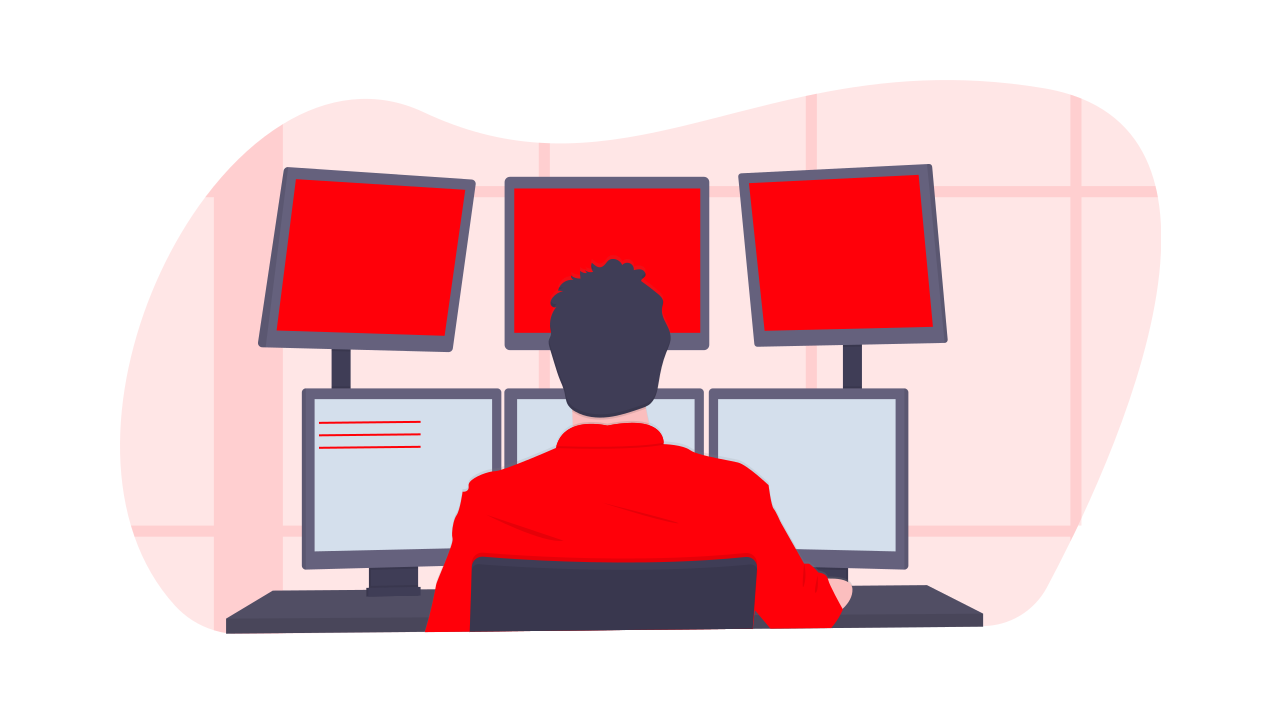
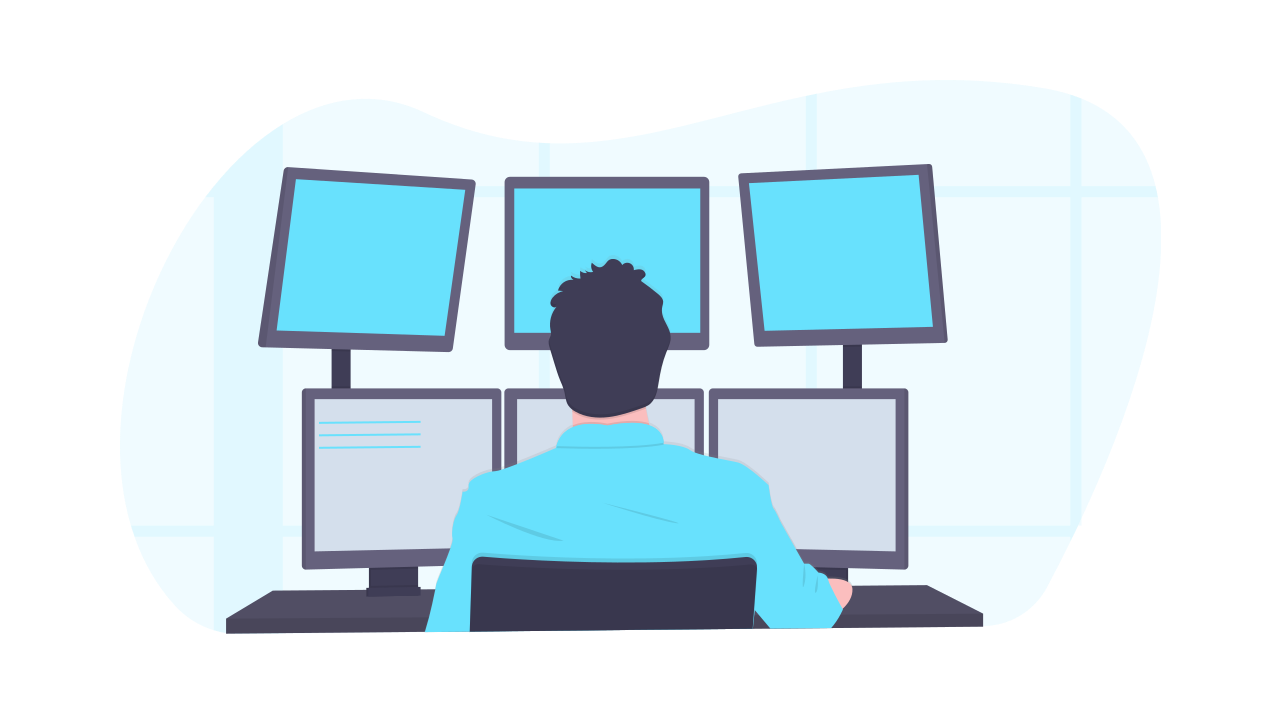
"Home page final "

diff --git a/src/components/reuseable/Frameworks.js b/src/components/reuseable/Frameworks.js
@@ -4,23 +4,40 @@ import { DiDjango} from 'react-icons/di'
 export default class Frameworks extends Component {
     render() {
         return (
-            <div className="container-fluid bg-light">
-                <h1>One stop location to learn all Web frameworks!</h1>
+            <div className="container-fluid bg-light pb-5">
+                <h1 className="text-center text-bold mb-5 text-second">One stop location to learn all Web frameworks!</h1>
                 <div className="container d-flex flex-row mx-auto bg-light justify-content-around">
-                    <div className="framecard d-flex flex-column">
-                        <FaLaravel className="frameicon"/>
-                        Laravel
+                    <div className="framecard d-flex flex-column shadow"
+                                                    data-sal="fade"
+                                                    data-sal-delay="600"
+                                                    data-sal-easing="ease">
+                        <FaLaravel className="frameicon text-first"/>
+                        <p className="text-center text-second ">Laravel</p>
                     </div>
-                    <div className="framecard d-flex flex-column">
-                        <FaVuejs  className="frameicon"/>
-                        Vue.js
+                    <div className="framecard d-flex flex-column shadow "
+                        data-sal="fade"
+                        data-sal-delay="700"
+                        data-sal-easing="ease">
+                        <FaVuejs  className="frameicon text-first"/>
+                        <p className="text-center text-second">Vue.js</p>
+                        
                     </div>
-                    <div className="framecard d-flex flex-column">
-                        <FaReact  className="frameicon"/>React.js</div>
-                    <div className="framecard d-flex flex-column "><FaAngular  className="frameicon"/>
-                    Angular 2</div>
-                    <div className="framecard d-flex flex-column"><DiDjango  className="frameicon"/>
-                    Django</div>
+                    <div className="framecard d-flex flex-column shadow"
+                        data-sal="fade"
+                        data-sal-delay="800"
+                        data-sal-easing="ease">
+                        <FaReact  className="frameicon text-first"/>
+                        <p className="text-center text-second">React.js</p></div>
+                    <div className="framecard d-flex flex-column shadow"
+                    data-sal="fade"
+                    data-sal-delay="900"
+                    data-sal-easing="ease"><FaAngular  className="frameicon text-first"/>
+                    <p className="text-center text-second">Angular2</p></div>
+                    <div className="framecard d-flex flex-column shadow"
+                                            data-sal="fade"
+                                            data-sal-delay="1000"
+                                            data-sal-easing="ease"><DiDjango  className="frameicon text-first"/>
+                    <p className="text-center text-second">Django</p></div>
                 </div>
             </div>
         )

diff --git a/src/components/reuseable/Whyus.js b/src/components/reuseable/Whyus.js
@@ -8,17 +8,27 @@ export default function Whyus() {
         <div className="container-fluid bg-light py-5">
             <Heading title="Why LearnCodeOnline.com? " />
             <div className="d-flex flex-row justify-content-around pt-5 pb-2">
-                <div className="card border-0 w-20 bg-white py-4 pl-4 pr-2 shadow-lg why-card">
+                <div className="card border-0 w-20 bg-white py-4 pl-4 pr-2 shadow-lg why-card"
+                                data-sal="zoom-in"
+                                data-sal-delay="800"
+                                data-sal-easing="ease-in"
+                >
                     <img className="card-img-top w-75 mx-auto" src={teacher}></img>
-                    <p className="mt-4">Expert Trainers that have worked in the concerned domain for years.</p>
+                    <p className="mt-5 text-muted">Expert Trainers that have worked in the concerned domain for years.</p>
                 </div>
-                <div className="card border-0 w-20 bg-white py-4 pl-4 pr-2 shadow-lg why-card">
-                    <img className="card-img-top w-75 mx-auto" src={learning}></img>
-                    <p className="mt-5">Assignments and todo tasks that will help in building strong base knowledge.</p>
+                <div className="card border-0 w-20 bg-white py-4 pl-4 pr-2 shadow-lg why-card"
+                                                data-sal="zoom-in"
+                                                data-sal-delay="900"
+                                                data-sal-easing="ease-in">
+                    <img className="card-img-top w-75 mx-auto mb-3 mt-2" src={learning}></img>
+                    <p className="mt-5 text-muted">Assignments and todo tasks that will help in building strong base knowledge.</p>
                 </div>
-                <div className="card border-0 w-20 bg-white py-4 pl-4 pr-2 shadow-lg why-card">
-                    <img className="card-img-top w-75 mx-auto" src={career}></img>
-                    <p className="mt-5">Special couses matching industry standards and updated regularly.</p>
+                <div className="card border-0 w-20 bg-white py-4 pl-4 pr-2 shadow-lg why-card"
+                                                data-sal="zoom-in"
+                                                data-sal-delay="1000"
+                                                data-sal-easing="ease-in">
+                    <img className="card-img-top w-75 mx-auto mb-4" src={career}></img>
+                    <p className="mt-5 text-muted">Special couses matching industry standards and updated regularly.</p>
                 </div>
             </div>
         </div>

diff --git a/src/components/reuseable/Certification.js b/src/components/reuseable/Certification.js
@@ -6,13 +6,28 @@ export default class Certification extends Component {
             <div className="container-fluid bg-light pt-3">
                 <div className="row">
                     <div className="col-sm-5 pt-5 pl-5">
-                        <h2 className="heading font-weight-bold ml-3 mb-1">Competitive Coding Tests are out now!</h2>
-                        <h4 className="ml-3 mt-5">Join now and become a Certified Devloper!</h4>
-                        <p className="ml-3">Solve all the problem statements alloted using any language and grab a <span className="lead">CERTIFICATE</span> for it!</p>
-                        <div className="container-fluid text-center"><button className="btn btn-success px-5 py-3">Start Coding?</button></div>
+                        <h2 className="heading text-second font-weight-bold ml-3 mb-1"                        
+                        data-sal="slide-right"
+                        data-sal-delay="500"
+                        data-sal-easing="ease">Competitive Coding Tests are out now!</h2>
+                        <h4 className="ml-3 mt-5 text-muted"                        
+                        data-sal="slide-right"
+                        data-sal-delay="500"
+                        data-sal-easing="ease">Join now and become a Certified Devloper!</h4>
+                        <p className="ml-3 text-muted"                        
+                        data-sal="slide-right"
+                        data-sal-delay="500"
+                        data-sal-easing="ease">Solve all the problem statements alloted using any language and grab a <span className="lead">CERTIFICATE</span> for it!</p>
+                        <div className="container-fluid text-center"                     
+                        data-sal="fade"
+                        data-sal-delay="1000"
+                        data-sal-easing="ease"><button className="btn-first btn-outline-primary btn px-3 py-2">Start Coding?</button></div>
                         
                     </div>
-                    <div className="col-sm-7"><img src={certification} className="w-100"></img></div>
+                    <div className="col-sm-7"
+                                            data-sal="fade"
+                                            data-sal-delay="700"
+                                            data-sal-easing="ease"><img src={certification} className="w-100"></img></div>
                 </div>
                 
             </div>

diff --git a/src/components/layout.css b/src/components/layout.css
@@ -10,11 +10,41 @@
 .no-mar{
     margin: 0px !important;
 }
-.background-theme{
-    background-color: thistle;
-}
 .bg-first{
-    background-color: #ecf0f1;
+    background-color: #68E1FD;
+}
+.bg-second{
+    background-color: #4834DF ;
+}
+.bg-third{
+    background-color: #DAE0E2;
+}
+.text-first{
+    color: #68E1FD;
+}
+.text-second{
+    color: #4834DF;
+}
+ .btn-first{
+    border:1px solid #4834DF;
+    color:#4834DF;
+    font-weight: 600;
+}
+.btn-first:hover{
+    background-color:#68E1FD;
+    border: none;
+    border:1px solid #68E1FD;
+}
+.btn-second{
+    border:1px solid #ffffff;
+    color:#fff;
+    font-weight: 600;
+    font-size: 1.5rem;
+}
+.btn-second:hover{
+    background-color:#4834DF;
+    border: none;
+    border:1px solid #4834DF;
 }
 .btn-round{
     border-radius: 20% !important;
@@ -67,8 +97,17 @@ nav{
     text-transform: uppercase;
     font-weight: 400;
 }
+.nav-link:hover{
+    color: #4834DF !important;
+}
+.menu-icon{
+    font-size: 1.5rem;
+    color:black;
+    margin: 2px;
+}
 .primarytextcolor{
     color: white !important;
+    font-weight: 600;
 }
 .cart-icon{
     color: white;
@@ -82,9 +121,13 @@ nav{
     font-weight: 600;
     font-size: 1.2rem;
 }
+.footer-logo{
+    font-size: 50px;
+    color: #4834DF;
+}
 .footer-link:hover{
     text-decoration: none;
-    color: #00b422;
+    color: #4834DF;
 }
 .list-group-item{
     background-color: transparent;
@@ -99,7 +142,7 @@ nav{
     margin-top: 10px;
 }
 .social-media-icon:hover{
-    color:#00b422;
+    color:#68E1FD;
     transition: all .5s ease;
 }
 /* Styles for about page */
@@ -138,21 +181,28 @@ nav{
     position: relative;
     background-image: url("https://images.pexels.com/photos/2774556/pexels-photo-2774556.jpeg?auto=compress&cs=tinysrgb&dpr=2&w=500");
     background-position: center;
-    background-size: cover;
+    background-size: cover;    
 }
 .techtalks-text{
     width: 100%;
     height: 75vh;
-    background-color: rgba(168, 178, 231, 0.8);
+    background-color: rgba(104, 225, 253, 0.8);
     z-index: 1;
 }
 .framecard{
     width: 150px;
     padding: 20px 50px;
     background-color: #ffffff;
+    transition: 1s ;
+}
+.framecard:hover{
+    background-color: #fafafa;
+    transform: scale(1.5,1.5);
+    transition: .7s cubic-bezier(0.6, -0.28, 0.735, 0.045);
 }
 .frameicon{
     font-size: 50px;
+    margin-bottom: 15px;
 }
 @media only screen and (max-width: 720px) {
     /* For mobile phones: */

diff --git a/src/components/reuseable/Footer.js b/src/components/reuseable/Footer.js
@@ -2,6 +2,7 @@ import React, { Component } from 'react'
 import { Link } from "gatsby"
 import { FaInstagram,FaGithub,FaFacebook,FaLinkedin} from "react-icons/fa"
 import logo from "../../images/gatsby-icon.png"
+import { FaLaptopCode } from "react-icons/fa"
 export default class Footer extends Component {
     render() {
         return (
@@ -9,8 +10,9 @@ export default class Footer extends Component {
                     <div className="container-fluid no-pad no-mar">
                         <div className="row no-pad no-mar ">
                             <div className="col-md-4 text-center pt-5 text-gray pb-5">
-                                <img className="footer-logo" src={logo} width="50px" height="50px"></img>
-                                <h4 className="text-primary mt-2">LTO Institution Pvt.Ltd .</h4>
+                                {/* <img className="footer-logo" src={logo} width="50px" height="50px"></img> */}
+                                <FaLaptopCode  className="footer-logo "/>
+                                <h4 className="text-second mt-2">LTO Institution Pvt.Ltd .</h4>
                                 <p>Coding made easy.</p>
                                 <div className="container-fluid text-left pl-5" >
                                 <p className="mt-0 mb-0 ml-4">201 Skyparidise,Nerul,Navi-Mumbai.</p>
@@ -45,7 +47,7 @@ export default class Footer extends Component {
                     </div>
                     <div className="container-fluid credits text-center pt-5 pb-2 bg-dark"> 
                         <p className="text-white">
-                            Devloped by <Link>Anurag_Gharat</Link> . All rights reserved 2020&copy;
+                            Devloped by <Link to="https://github.com/anurag-gharat">Anurag_Gharat</Link> . All rights reserved 2020&copy;
                         </p>
                     </div>
                 </footer>

diff --git a/src/components/reuseable/TechTalks.js b/src/components/reuseable/TechTalks.js
@@ -2,15 +2,19 @@ import React from 'react'
 import { FiSend } from "react-icons/fi";
 export default function TechTalks() {
     return (
-        <div className="container-fluid no-pad no-mar techtalks w-100">
+        <div className="container-fluid no-pad no-mar techtalks w-100"
+                             
+        data-sal="fade"
+        data-sal-delay="500"
+        data-sal-easing="ease">
             <div className="techtalks-text pt-5">
                 <div className="container-fluid float-left w-100 mx-auto text-center">
-                    <h2 className="heading mt-5">We would love to visit your university!</h2>
-                    <p className="lead mx-5">We love to meet students directly at their campus. Students get a lot of knowledge, clear path guide and Boost in life. We get a lot of love in return.</p>
+                    <h2 className="heading mt-3 mb-2 text-uppercase text-white">We would love to visit your university!</h2>
+                    <p className="lead mx-5 mt-3">We love to meet students directly at their campus. Students get a lot of knowledge, clear path guide and Boost in life. We get a lot of love in return.</p>
                     <p className="font-weight-bold">Send us an email to invite us at your college!</p>
                     <input className="form-control w-50 mx-auto"></input>
                     <br />
-                    <button className="btn btn-success px-4 py-2 mt-0"><FiSend /></button>
+                    <button className="btn btn-outline-dark btn-second px-4 py-2 mt-0">SEND</button>
                 </div>
                 
             </div>

diff --git a/src/components/reuseable/InfoBlock.js b/src/components/reuseable/InfoBlock.js
@@ -3,7 +3,10 @@ import coding from "../../images/coding.png"
 export default function InfoBlock({heading,details}) {
     return (
         <div className="container-fluid row pb-5 ">
-            <div className="col-sm-6 no-mar pt-5 pl-5">
+            <div className="col-sm-6 no-mar pt-5 pl-5"
+                            data-sal="slide-right"
+                            data-sal-delay="500"
+                            data-sal-easing="ease">
               <div className="mt-5 text-black bold">
               <h1>Get career ready with courses specially designed with Industry approach.</h1>
               </div>
@@ -12,8 +15,12 @@ export default function InfoBlock({heading,details}) {
              
               </div>  
             </div>
-            <div className="col-sm-6 bg-white no-mar pt-5">
-                <img src={coding} className="w-100" />
+            <div className="col-sm-6 bg-white no-mar pt-5"
+            >  
+                <img src={coding} className="w-100" 
+                data-sal="slide-left"
+                data-sal-delay="700"
+                data-sal-easing="ease"/>
             </div>
 
         </div>

diff --git a/src/components/reuseable/Navbar.js b/src/components/reuseable/Navbar.js
@@ -2,6 +2,7 @@ import React, { Component } from 'react';
 import { Link } from "gatsby";
 import { FaShoppingCart } from "react-icons/fa";
 import { FaLaptopCode } from "react-icons/fa"
+import { FiMenu } from "react-icons/fi"
 
 export default class Navbar extends Component {
     
@@ -32,8 +33,8 @@ export default class Navbar extends Component {
             <div className="navbar-header">
 
               <Link to="/" className="navbar-brand text-white bg-dark px-3 py-2 websitename"><FaLaptopCode className="icon mb-1 mr-2"/>LearnToCode</Link>
-              <button type="button" className="navbar-toggler ml-5 float-right" data-toggle="collapse" data-target="#myNavbar">
-                <span className="navbar-toggler-icon text-white border"></span>
+              <button type="button" className="navbar-toggler ml-5 float-right bg-dark display-1" data-toggle="collapse" data-target="#myNavbar">
+                <FiMenu className="bg-dark text-white menu-icon"/>
               </button>
               
             </div>

diff --git a/src/components/Cart/coursescart.js b/src/components/Cart/coursescart.js
@@ -59,7 +59,7 @@ export default class coursescart extends Component {
                     </div>
                     {this.state.choicecourses.map(({node})=>{
                         return(
-                        <div className="col-5 mt-5 pt-4 pb-4 d-flex flex-column text-center bg-first single-course"                             
+                        <div className="col-5 mt-5 pt-4 pb-4 d-flex flex-column text-center bg-light single-course shadow-lg"                             
                         data-sal="slide-down"
                         data-sal-delay="400"
                         data-sal-easing="ease-in">

diff --git a/src/components/reuseable/Heading.js b/src/components/reuseable/Heading.js
@@ -2,7 +2,7 @@ import React from 'react'
 
 export default function Heading({title}) {
     return ( 
-            <h1 className="title-primary d-flex justify-content-center">{title}</h1>
+            <h1 className="title-primary text-second d-flex justify-content-center">{title}</h1>
         
             
     )
